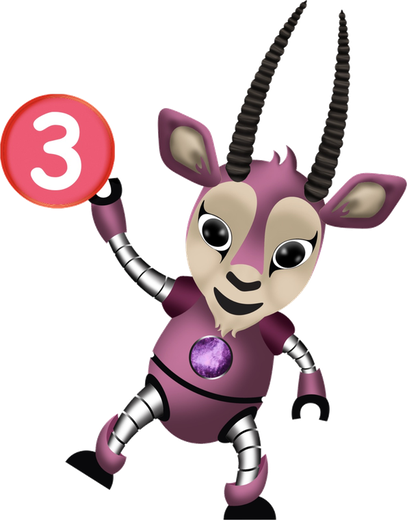
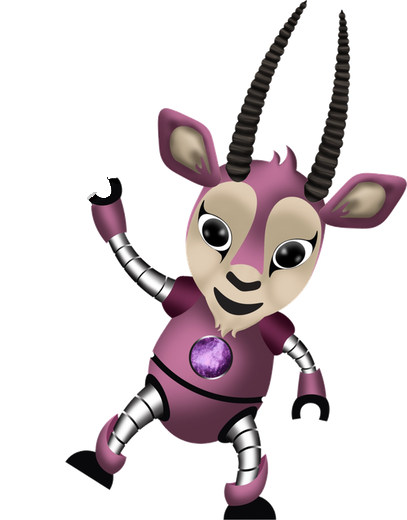
إزالة الرقم 3 من شخصية المها
- حذف القرص الأحمر والرقم 3 الذي تمسكه المها بيدها من صورة
  public/mascot-oryx.png، وتبقى اليد مفتوحة كيدها الأخرى.
- باقي الصورة لم يتغيّر: الأبعاد نفسها (407×520)، وكل البكسلات خارج
  منطقة القرص مطابقة للأصل.

Claude-Session: https://claude.ai/code/session_017fXrUTGavU24kT7pFvJv99

Changed region(s): [[0.0, 0.1538, 0.2948, 0.4]]

diff --git a/src/components/oryx-mascot.tsx b/src/components/oryx-mascot.tsx
@@ -3,7 +3,7 @@ import { cn } from '@/lib/utils';
 
 /**
  * تميمة المنصّة — المها العربي (رمز قطر الوطني) بالهيئة التي اعتمدها المصمّم:
- * درع عنّابي، قرنان حلقيّان، وشارة المستوى الثالث.
+ * درع عنّابي وقرنان حلقيّان.
  *
  * تُستخدم الصورة الأصلية كما هي بدل رسمها تقريبيًا، حفاظًا على الشخصية نفسها
  * التي يعرفها الطلبة من الكتاب.
